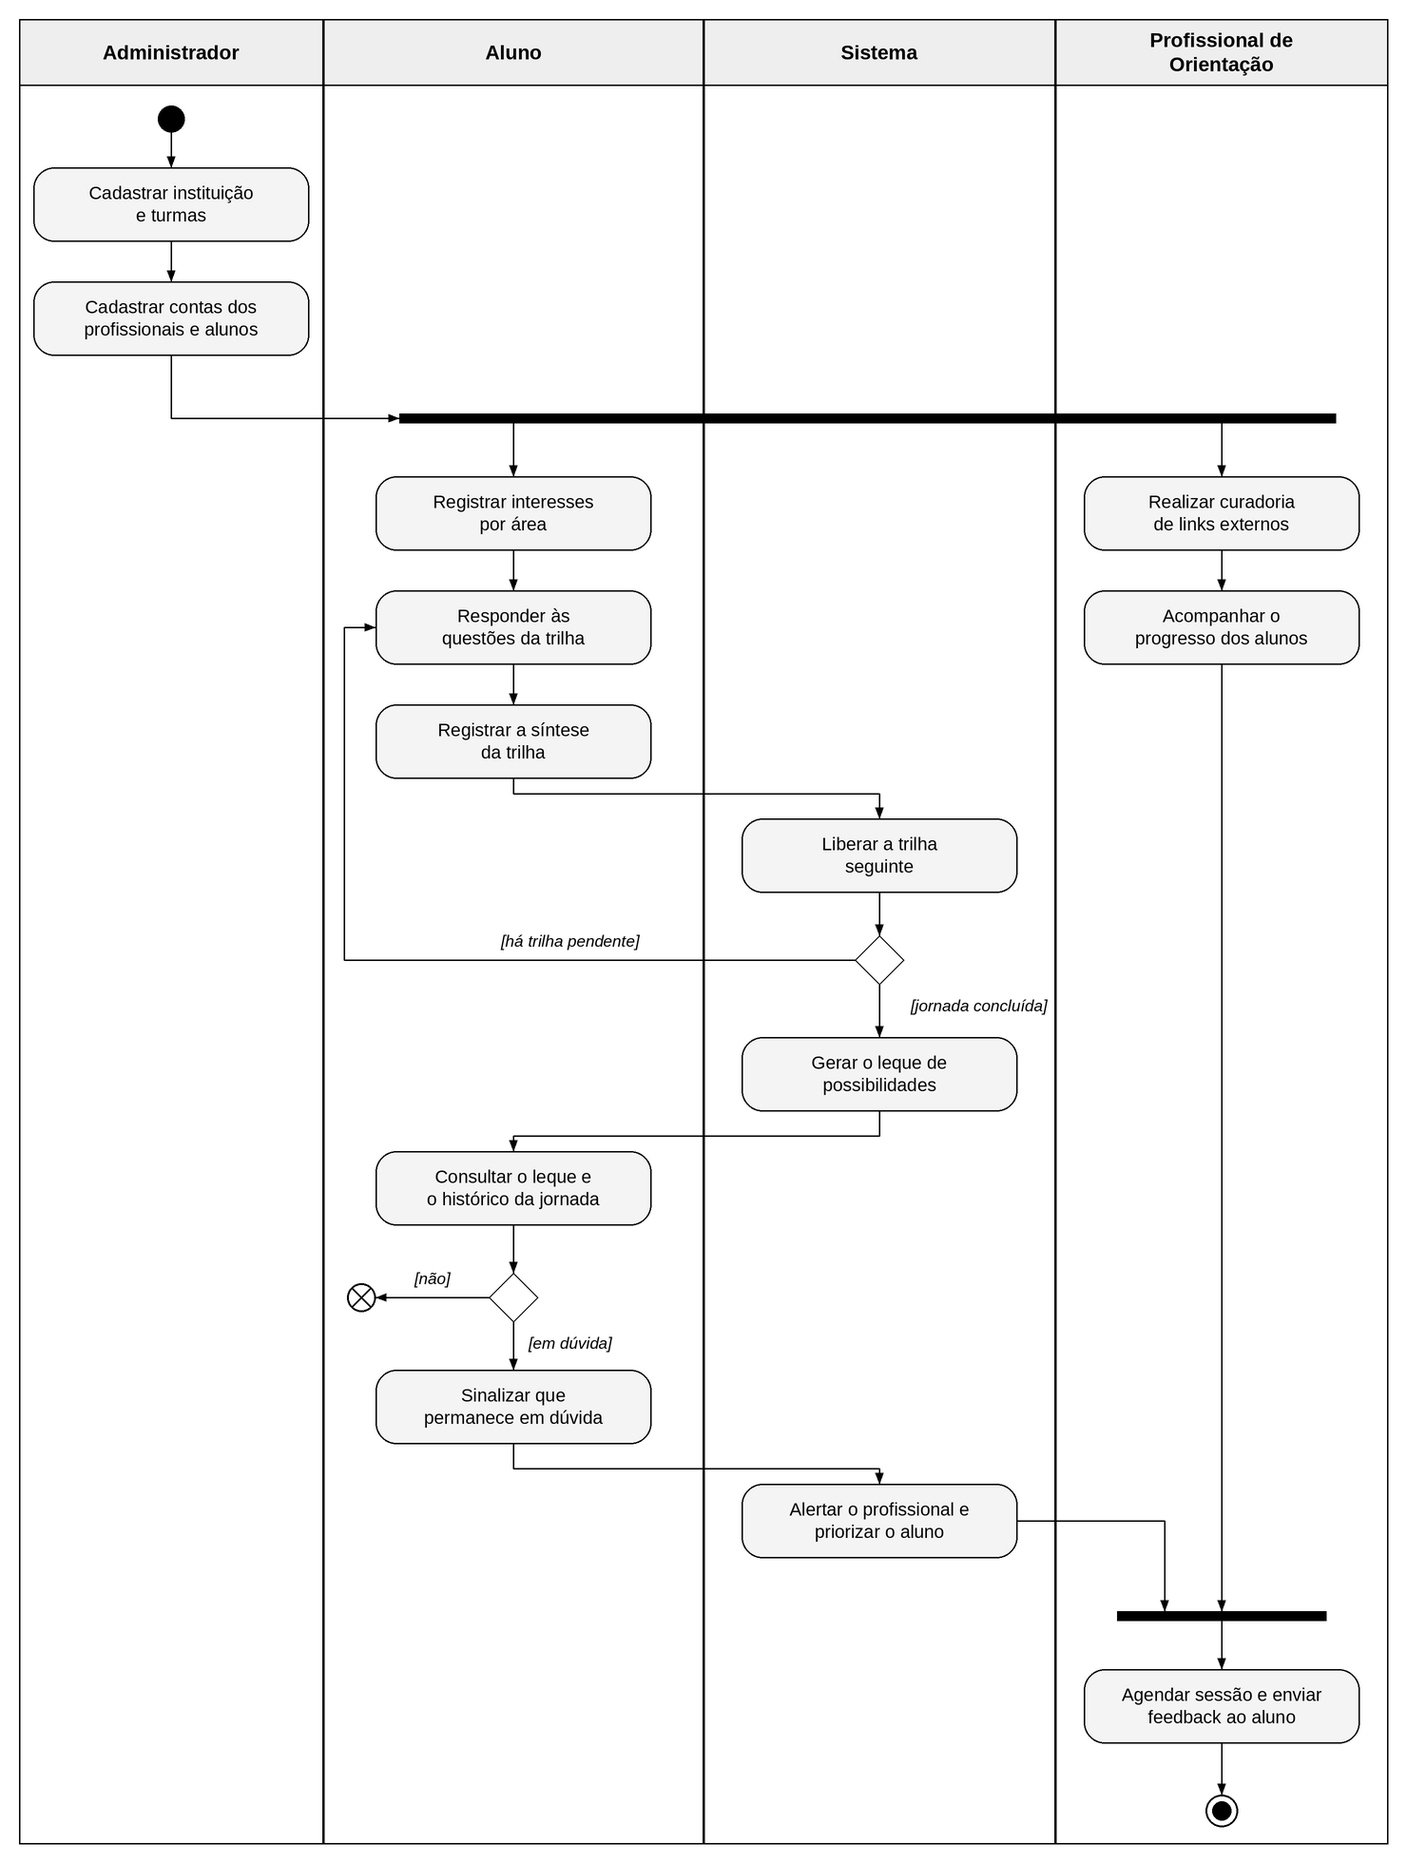
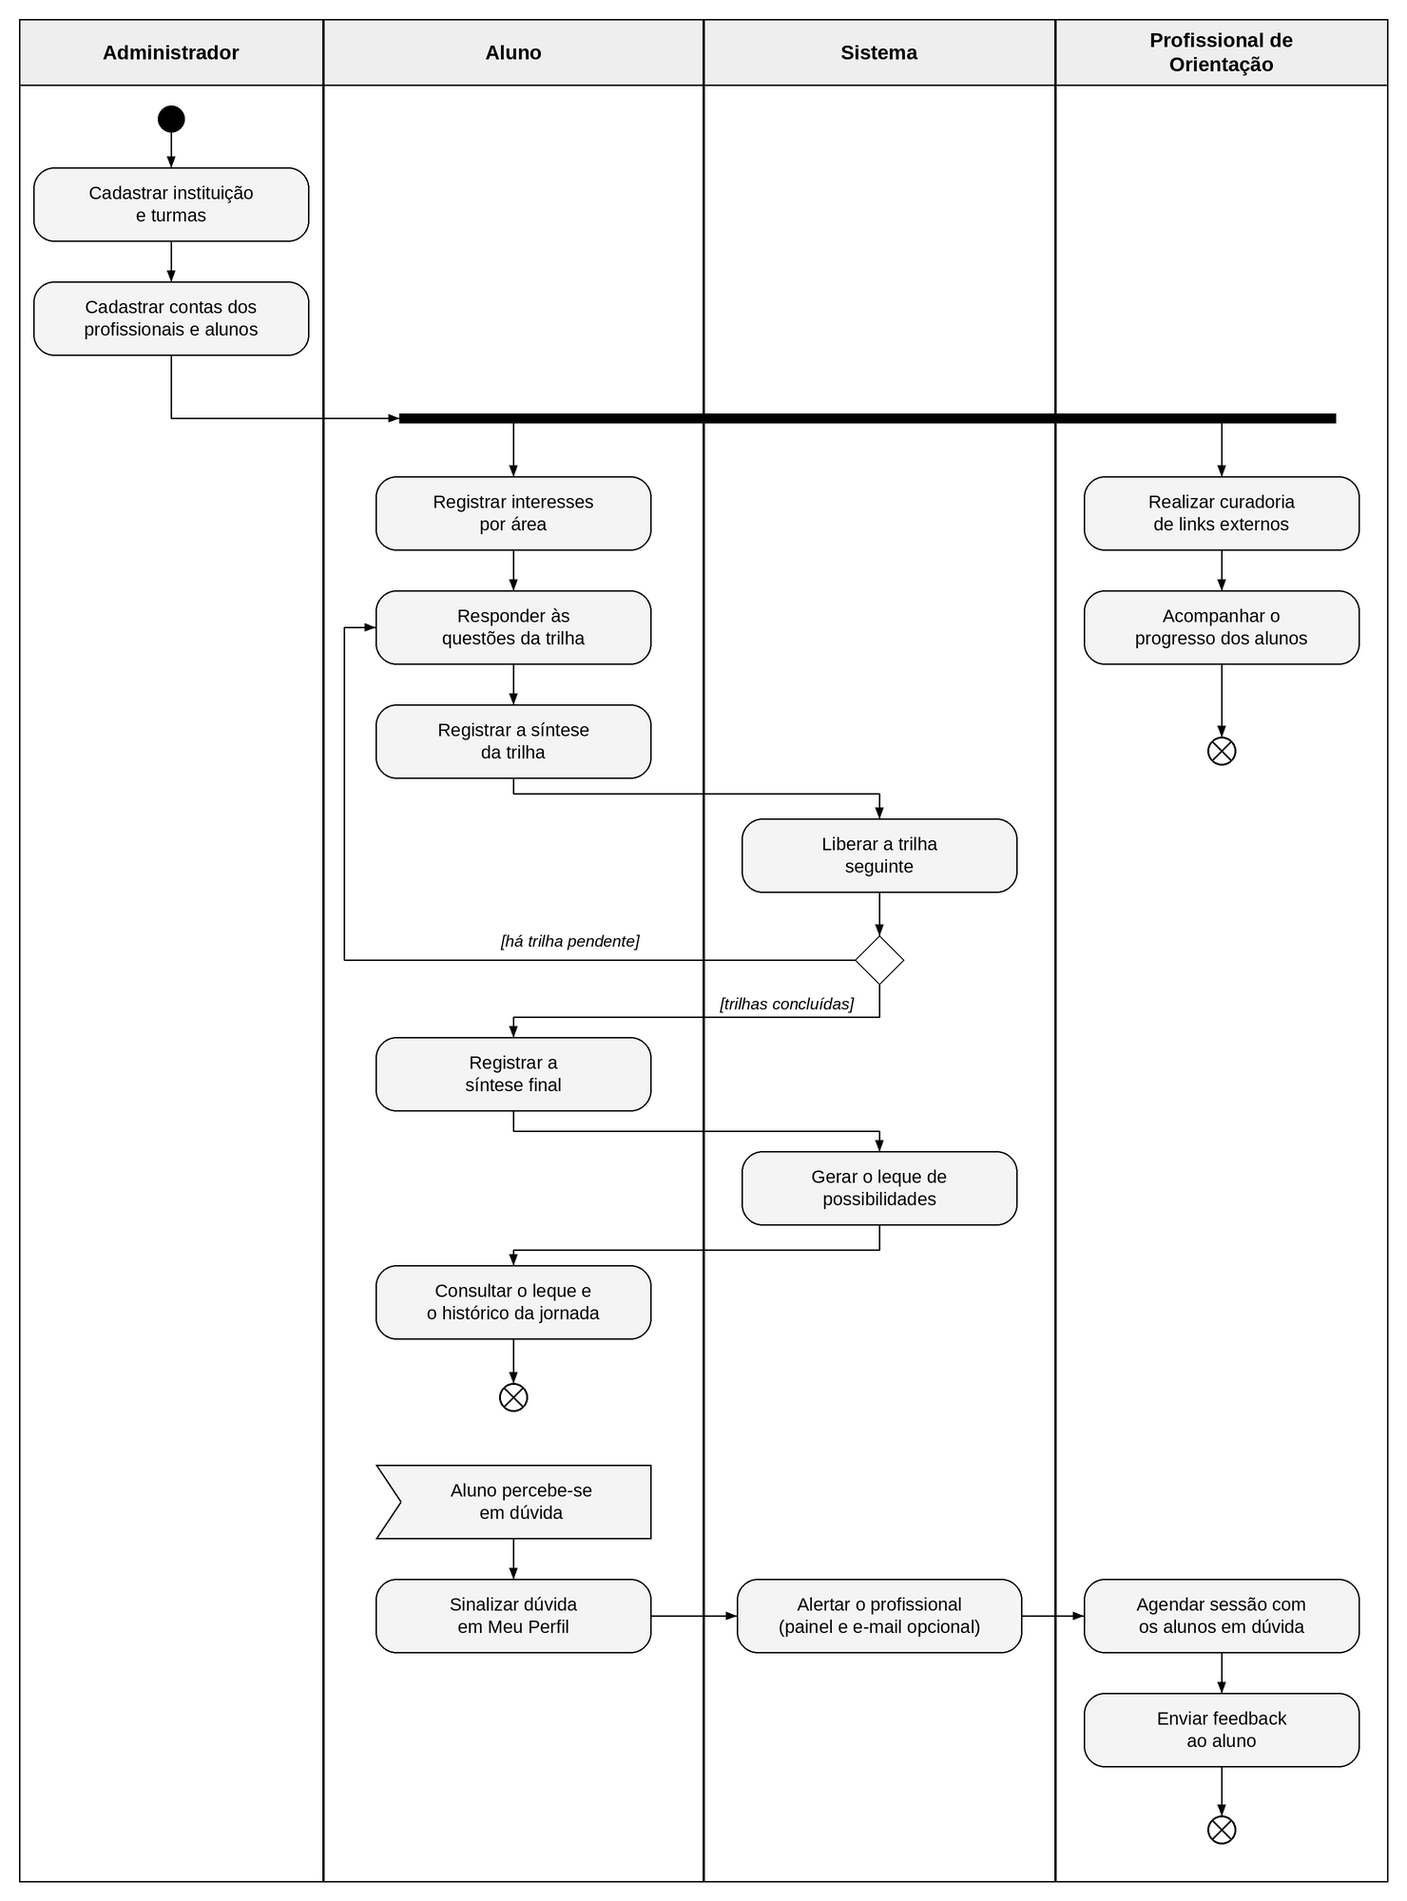
Ajusta o Capítulo 2 às sugestões do orientador
Atende aos itens 2.5, 4.3, 4.9 e 7.3 das sugestões do orientador: Projeto de Vida e ECA Digital no Cenário, ECA Digital nas necessidades, profissionais de orientação sem menção a registro, nova Seção 2.5 com o diagrama de atividades revisado (síntese final antes do leque e sinalização de dúvida a qualquer momento).

diff --git a/Projeto/TEMPLATE_TCC_GRUPO 3/capitulos/contexto-projeto.tex b/Projeto/TEMPLATE_TCC_GRUPO 3/capitulos/contexto-projeto.tex
@@ -3,7 +3,7 @@
 % ----------------------------------------------------------
 \chapter{Contexto do Projeto}\label{cap:contexto}
 
-Este capítulo apresenta o contexto atual no qual o projeto \textit{SyncCarreira} está inserido, caracterizando o cenário histórico e mercadológico da orientação vocacional, o público diretamente envolvido, as necessidades identificadas a partir desse cenário e as regras de negócio do domínio. O objetivo é estabelecer a compreensão do problema sob a perspectiva da comunidade atendida (instituições, profissionais de orientação e jovens), ainda de forma independente da solução computacional, que será detalhada nos capítulos seguintes.
+Este capítulo apresenta o contexto atual no qual o projeto \textit{SyncCarreira} está inserido, caracterizando o cenário histórico e mercadológico da orientação vocacional, o público diretamente envolvido, as necessidades identificadas a partir desse cenário, as regras de negócio do domínio e o processo de orientação vocacional no qual o sistema se insere. O objetivo é estabelecer a compreensão do problema sob a perspectiva da comunidade atendida (instituições, profissionais de orientação e jovens), ainda de forma independente da solução computacional, que será detalhada nos capítulos seguintes.
 
 \section{Cenário}\label{sec:cenario}
 
@@ -15,7 +15,9 @@ Nas décadas seguintes, a área passou a incorporar críticas às abordagens que
 
 Nesse mesmo sentido, estudo conduzido em escola pública brasileira reforça que cabe à intervenção de orientação profissional o papel de organizar o debate coletivo em torno da relação entre o indivíduo e a sociedade, contribuindo para que o estudante construa um projeto de futuro a partir de sua própria realidade material, e não de um resultado técnico descontextualizado \cite{gomes2020}. Esses achados sustentam duas escolhas conceituais que orientam o \textit{SyncCarreira}: a compreensão da escolha profissional como processo contínuo e multideterminado --- e não como diagnóstico técnico fechado --- e a valorização do registro reflexivo do próprio estudante como parte central do processo, e não apenas de instrumentos padronizados de avaliação.
 
-Esse cenário de escassez de acompanhamento presencial coexiste, contudo, com um ambiente de forte digitalização da vida escolar. Levantamentos recentes indicam que a presença de crianças e adolescentes em ambientes digitais é praticamente universal no país, o que tem levado o próprio Conselho Federal de Psicologia a publicar orientações específicas sobre a atuação profissional nesse cenário, reforçando princípios éticos de cuidado, escuta qualificada e proteção integral de crianças e adolescentes no uso de tecnologias --- inclusive quando mediadas por terceiros, como \textit{softwares} e plataformas \cite{cfp2025mundodigital}. Esse mesmo documento alerta que a mediação tecnológica do cuidado com jovens não dispensa, mas reforça a necessidade de supervisão profissional qualificada sobre o conteúdo oferecido \cite{cfp2025mundodigital}.
+No contexto escolar, esse processo de reflexão sobre o futuro dispõe hoje de um espaço curricular próprio. A legislação do Ensino Médio assegura aos estudantes oportunidades de construção de projetos de vida, voltados, entre outros aspectos, à preparação para o mundo do trabalho, e prevê que os sistemas de ensino apoiem as escolas em programas de orientação dos estudantes \cite{brasil2024lei14945}; a Base Nacional Comum Curricular, por sua vez, inclui entre as competências gerais da educação básica a capacidade de fazer escolhas alinhadas ao próprio projeto de vida \cite{brasil2018bncc}. O componente Projeto de Vida constitui, assim, o momento da rotina escolar em que a orientação profissional tende a ocorrer, e é nesse espaço que uma ferramenta de apoio ao profissional de orientação encontra aplicação nas escolas.
+
+Esse cenário de escassez de acompanhamento presencial coexiste, contudo, com um ambiente de forte digitalização da vida escolar. Levantamentos recentes indicam que a presença de crianças e adolescentes em ambientes digitais é praticamente universal no país, o que tem levado o próprio Conselho Federal de Psicologia a publicar orientações específicas sobre a atuação profissional nesse cenário, reforçando princípios éticos de cuidado, escuta qualificada e proteção integral de crianças e adolescentes no uso de tecnologias --- inclusive quando mediadas por terceiros, como \textit{softwares} e plataformas \cite{cfp2025mundodigital}. Esse mesmo documento alerta que a mediação tecnológica do cuidado com jovens não dispensa, mas reforça a necessidade de supervisão profissional qualificada sobre o conteúdo oferecido \cite{cfp2025mundodigital}. No plano legal, o Estatuto Digital da Criança e do Adolescente (Lei nº 15.211/2025), em vigor desde março de 2026, passou a disciplinar os produtos e serviços de tecnologia da informação direcionados a crianças e adolescentes ou de acesso provável por eles, como é o caso de uma plataforma de orientação vocacional para estudantes do Ensino Médio. Entre outras obrigações, a lei exige que esses produtos sejam concebidos, desde a fase de projeto, com a configuração mais protetiva disponível em relação à privacidade e à proteção de dados pessoais como padrão \cite{brasil2025lei15211}.
 
 Esse cenário de digitalização também se reflete no mercado educacional brasileiro. O Brasil é, atualmente, o principal polo de tecnologia educacional (\textit{EdTech}) da América Latina, concentrando cerca de metade das organizações mais promissoras do setor na região, segundo levantamento da \citeonline{holoniq2024}, plataforma internacional de inteligência de mercado em educação. É nesse espaço --- entre a maturidade tecnológica do setor de \textit{EdTech}, a exigência ética de supervisão profissional sobre conteúdos digitais voltados a menores e a defasagem estrutural do acompanhamento psicológico escolar presencial --- que o \textit{SyncCarreira} se insere.
 
@@ -25,7 +27,7 @@ O público diretamente envolvido no \textit{SyncCarreira} organiza-se em três g
 
 O primeiro grupo é o das instituições parceiras --- escolas e organizações não governamentais que atendem jovens em processo de escolha profissional. Em 2024, o Brasil registrou 47,1 milhões de matrículas em 179,3 mil escolas de educação básica \cite{inep2025censoescolar}, o que evidencia tanto a escala do sistema educacional brasileiro quanto a diversidade de contextos institucionais --- da escola pública de grande porte à ONG de atendimento comunitário --- que uma solução de orientação vocacional precisa comportar.
 
-O segundo grupo é o dos profissionais de orientação --- psicólogos e psicólogas, mas também mentores e mentoras educacionais que, em ONGs e escolas parceiras, conduzem esse acompanhamento sem necessariamente deter o registro profissional de Psicologia. A efetivação da Lei nº 13.935/2019 nos municípios brasileiros ainda é um processo em curso \cite{cfpcfess2022}, cenário que a própria revisão de \citeonline{martins2024} associa à frequente condução de práticas de orientação por profissionais e educadores que não são psicólogos escolares formalmente lotados na instituição. O \textit{SyncCarreira} reconhece essa realidade ao não restringir seu uso a psicólogas registradas, mas contemplar também mentores educacionais responsáveis por esse acompanhamento.
+O segundo grupo é o dos profissionais de orientação --- psicólogos(as) e mentores(as) educacionais que, em escolas e ONGs parceiras, conduzem esse acompanhamento. A efetivação da Lei nº 13.935/2019 nos municípios brasileiros ainda é um processo em curso \cite{cfpcfess2022}, cenário que a própria revisão de \citeonline{martins2024} associa à frequente condução de práticas de orientação por profissionais e educadores que não são psicólogos escolares formalmente lotados na instituição. O \textit{SyncCarreira} reconhece essa realidade ao reunir, sob o perfil de profissional de orientação, os psicólogos(as) e os mentores(as) educacionais responsáveis por esse acompanhamento.
 
 O terceiro e principal grupo é o dos jovens em processo de escolha profissional. Esse grupo é formado, majoritariamente, por adolescentes do Ensino Médio, tipicamente entre 14 e 18 anos: estudo conduzido com essa faixa etária no contexto brasileiro caracteriza a decisão de carreira como uma etapa potencialmente estressante do desenvolvimento adolescente, ligada à própria consolidação da identidade do jovem, e identifica as dificuldades de tomada de decisão de carreira como a demanda mais recorrente nos serviços de orientação profissional \cite{silva2021}. O público do sistema, contudo, não se limita a estudantes matriculados no Ensino Médio: contempla também jovens um pouco mais velhos que, mesmo após concluírem essa etapa, permanecem em dúvida quanto à escolha profissional e seguem vinculados a uma instituição parceira --- como uma ONG de apoio a jovens aprendizes, por exemplo ---, já que a indecisão vocacional não se resolve necessariamente no momento da formatura. Trata-se, em ambos os casos, de um público que não busca uma resposta pronta, mas um espaço estruturado de elaboração desse processo identitário.
 
@@ -37,7 +39,7 @@ Em primeiro lugar, identifica-se a necessidade de estruturação do acompanhamen
 
 Em segundo lugar, há a necessidade de oferecer ao jovem um espaço de autoconhecimento estruturado, porém não impositivo --- compatível com a compreensão da escolha profissional como processo multideterminado e socialmente construído, e não como resultado de um diagnóstico único e definitivo \cite{martins2024,gomes2020}.
 
-Em terceiro lugar, dado que parte relevante do público do sistema é formada por menores de idade, identifica-se a necessidade de proteção rigorosa de dados sensíveis em ambiente digital e de supervisão profissional qualificada sobre qualquer conteúdo oferecido por meio de tecnologia, alinhada tanto às diretrizes éticas da profissão \cite{cfp2025mundodigital} quanto às exigências da Lei Geral de Proteção de Dados (LGPD) quando o tratamento envolve dados pessoais de crianças e adolescentes \cite{brasil2018lgpd}.
+Em terceiro lugar, dado que parte relevante do público do sistema é formada por menores de idade, identifica-se a necessidade de proteção rigorosa de dados sensíveis em ambiente digital e de supervisão profissional qualificada sobre qualquer conteúdo oferecido por meio de tecnologia, alinhada tanto às diretrizes éticas da profissão \cite{cfp2025mundodigital} quanto às exigências da Lei Geral de Proteção de Dados (LGPD) quando o tratamento envolve dados pessoais de crianças e adolescentes \cite{brasil2018lgpd} e às do Estatuto Digital da Criança e do Adolescente, que exige a configuração mais protetiva como padrão nos serviços digitais destinados a esse público \cite{brasil2025lei15211}.
 
 Por fim, identifica-se a necessidade de uma solução escalável e replicável entre instituições de diferentes portes e recursos --- escolas públicas, privadas e ONGs ---, aproveitando o momento de maturidade do setor de tecnologia educacional brasileiro \cite{holoniq2024} para viabilizar o acesso de instituições com menor capacidade de investimento em atendimento individualizado.
 
@@ -85,9 +87,13 @@ RN-09 & O sistema deve possuir um banco de dados fixo com questões para cada tr
 \legend{Fonte: Autoria própria (2026).}
 }
 
+\section{Processo de Orientação Vocacional}\label{sec:processo}
+
 O processo de orientação vocacional no qual o \textit{SyncCarreira} se insere envolve quatro participantes --- o Administrador, o aluno, o próprio sistema e o profissional de orientação --- e combina atividades sequenciais, decisões e atividades executadas em paralelo. Para representá-lo, adota-se o diagrama de atividades, que descreve o fluxo de controle de um processo por meio de suas ações, decisões e paralelismos e permite organizá-las em partições de acordo com o responsável por cada ação \cite{omg2017uml}.
 
-O processo inicia-se com o cadastro da instituição parceira, de suas turmas e das contas de profissionais de orientação e alunos pelo Administrador. A partir daí, duas linhas de atividade ocorrem em paralelo. De um lado, o aluno registra seus interesses e percorre as trilhas, respondendo às questões e registrando uma síntese ao final de cada uma, enquanto o sistema libera a trilha seguinte até a conclusão da jornada. De outro, o profissional de orientação realiza a curadoria de \textit{links} externos e acompanha o progresso dos alunos. Concluída a jornada, o sistema gera o leque de possibilidades, que o aluno consulta juntamente com o histórico de sua jornada. Caso permaneça em dúvida quanto à escolha profissional, o aluno sinaliza essa condição, e o sistema alerta o profissional de orientação e prioriza o aluno, que passa a ser convocado para uma sessão de orientação e recebe \textit{feedback} do profissional. A \autoref{fig_atividades} apresenta esse processo.
+O processo inicia-se com o cadastro da instituição parceira, de suas turmas e das contas de profissionais de orientação e alunos pelo Administrador. A partir daí, duas linhas de atividade ocorrem em paralelo. De um lado, o aluno registra seus interesses e percorre as trilhas, respondendo às questões e registrando uma síntese ao final de cada uma, enquanto o sistema libera a trilha seguinte. Concluídas as trilhas, o aluno registra a síntese final, a partir da qual o sistema gera o leque de possibilidades, que o aluno consulta juntamente com o histórico de sua jornada. De outro lado, o profissional de orientação realiza a curadoria de \textit{links} externos e acompanha o progresso dos alunos.
+
+Paralelamente a essas atividades, o aluno pode, a qualquer momento, sinalizar na área ``Meu Perfil'' que está em dúvida quanto à escolha profissional. No diagrama, essa possibilidade é representada por uma ação de aceitação de evento, que não depende do ponto em que o aluno se encontra na jornada \cite{omg2017uml}. A sinalização gera um alerta no painel do profissional de orientação e, se o aluno assim optar, também um aviso por \textit{e-mail}; o profissional pode, então, agendar uma sessão de orientação com os alunos em dúvida e enviar-lhes \textit{feedback}. Como cada linha de atividade se encerra de forma independente, os finais de fluxo indicam o término de cada uma delas. A \autoref{fig_atividades} apresenta esse processo.
 
 \begin{figure}[!htbp]
     \centering

diff --git a/Projeto/TEMPLATE_TCC_GRUPO 3/capitulos/introducao.tex b/Projeto/TEMPLATE_TCC_GRUPO 3/capitulos/introducao.tex
@@ -258,4 +258,4 @@ Nota: verificação das plataformas concorrentes realizada em 12/05/2026; no cas
 
 \section{Estrutura do Documento}\label{sec:estrutura-documento}
 
-Além desta Introdução, o documento organiza-se em mais cinco capítulos. O Capítulo 2, Contexto do Projeto, caracteriza o cenário da orientação vocacional, o público-alvo, as necessidades identificadas e as regras de negócio do domínio. O Capítulo 3, Análise do Sistema, apresenta os atores, os casos de uso, o modelo conceitual e os requisitos funcionais e não funcionais. O Capítulo 4, Projeto do Sistema, descreve a arquitetura, os componentes, o modelo de dados, a interface do usuário, as interações entre os elementos do sistema e os mecanismos de segurança. O Capítulo 5, Implementação, relata o ambiente de desenvolvimento e a organização da equipe, a estrutura, os componentes e a integração da aplicação, os testes realizados, os resultados obtidos, a análise financeira da operação da plataforma e as limitações da versão desenvolvida. Por fim, o Capítulo 6, Conclusão, avalia os resultados em relação aos objetivos, registra as dificuldades encontradas e indica trabalhos futuros. O Apêndice A reúne o Documento de Requisitos do Sistema.
+Além desta Introdução, o documento organiza-se em mais cinco capítulos. O Capítulo 2, Contexto do Projeto, caracteriza o cenário da orientação vocacional, o público-alvo, as necessidades identificadas, as regras de negócio do domínio e o processo de orientação vocacional. O Capítulo 3, Análise do Sistema, apresenta os atores, os casos de uso, o modelo conceitual e os requisitos funcionais e não funcionais. O Capítulo 4, Projeto do Sistema, descreve a arquitetura, os componentes, o modelo de dados, a interface do usuário, as interações entre os elementos do sistema e os mecanismos de segurança. O Capítulo 5, Implementação, relata o ambiente de desenvolvimento e a organização da equipe, a estrutura, os componentes e a integração da aplicação, os testes realizados, os resultados obtidos, a análise financeira da operação da plataforma e as limitações da versão desenvolvida. Por fim, o Capítulo 6, Conclusão, avalia os resultados em relação aos objetivos, registra as dificuldades encontradas e indica trabalhos futuros. O Apêndice A reúne o Documento de Requisitos do Sistema.
